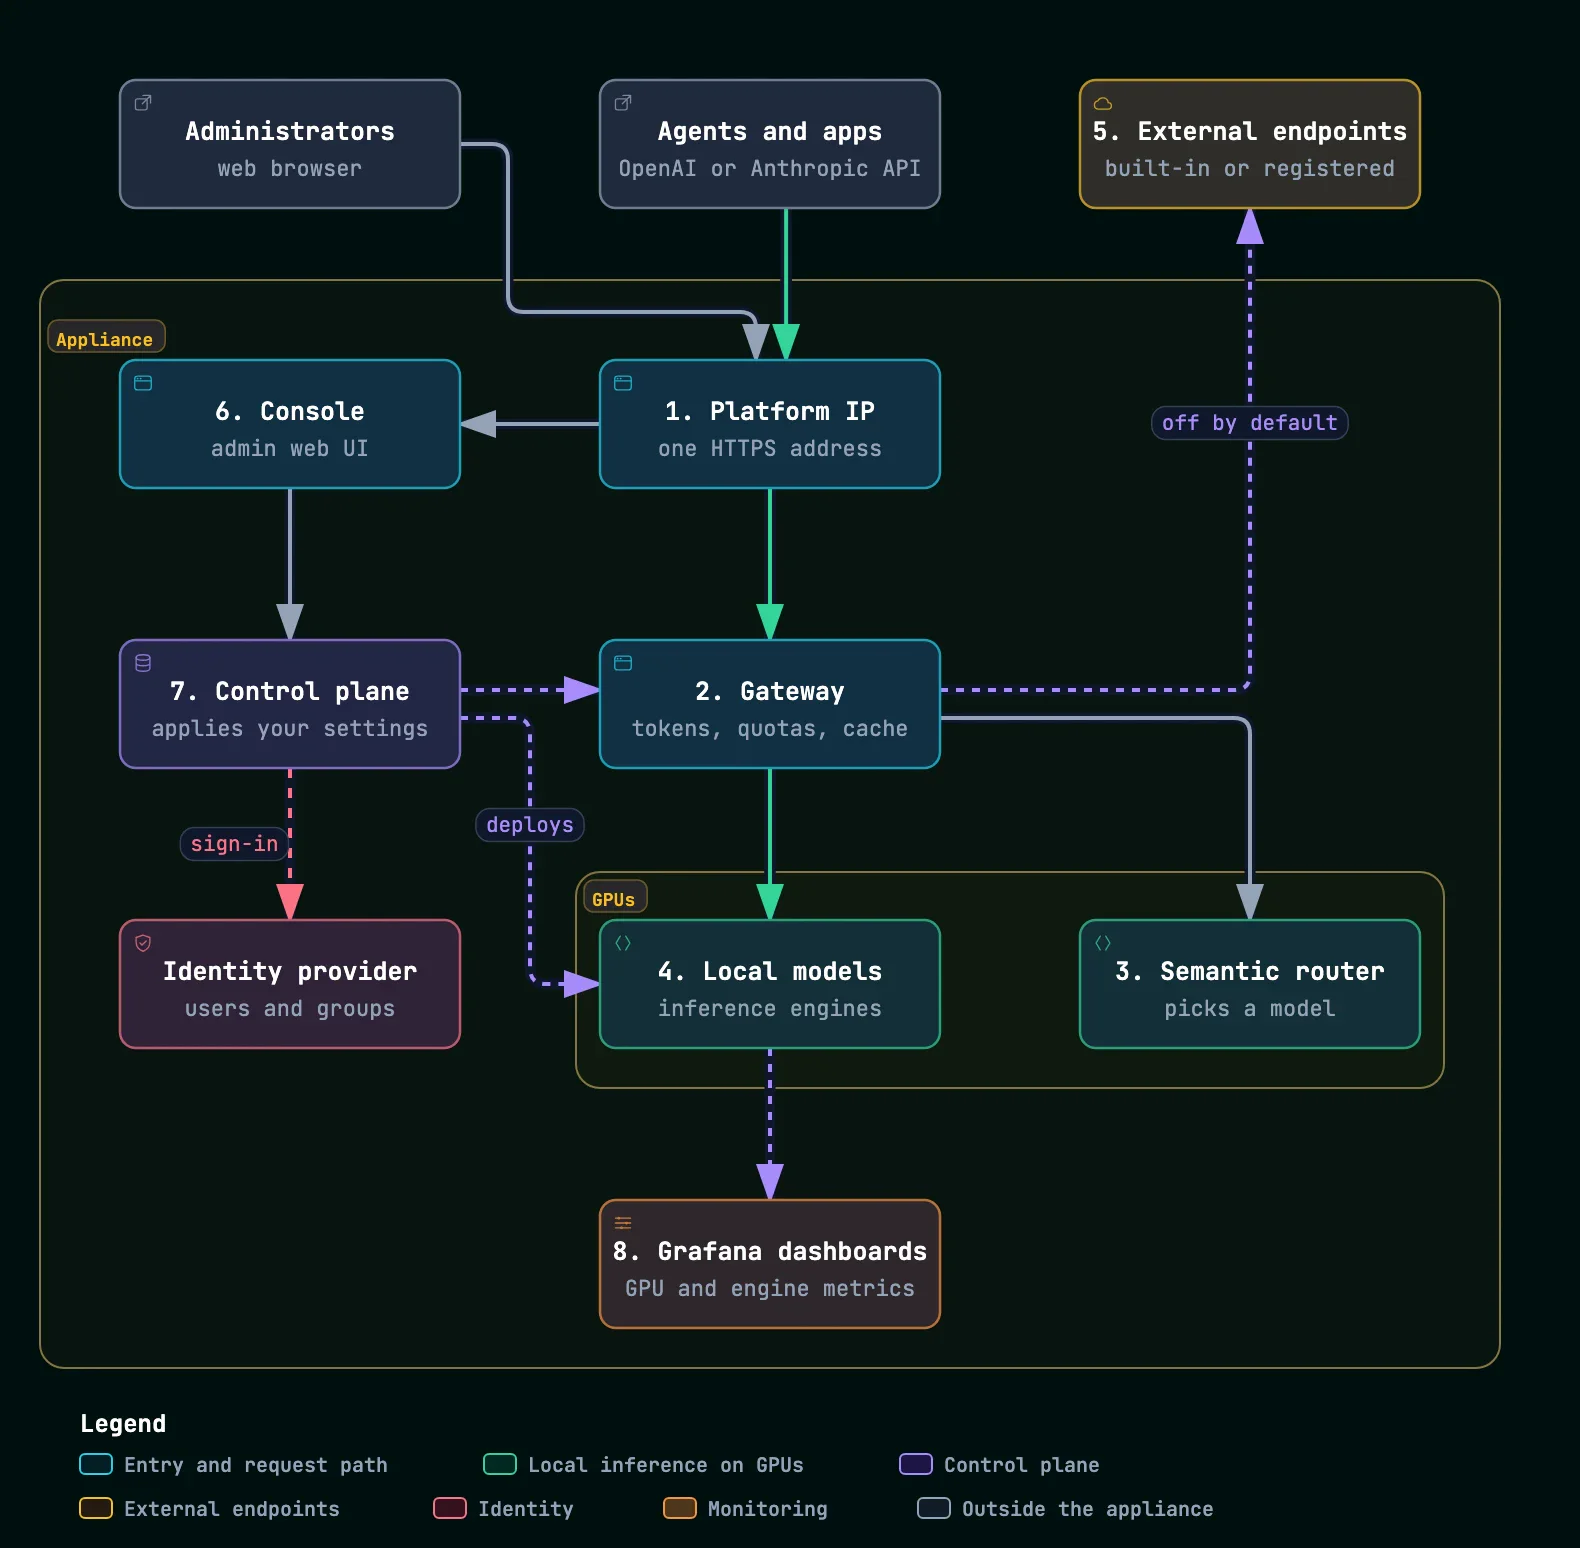
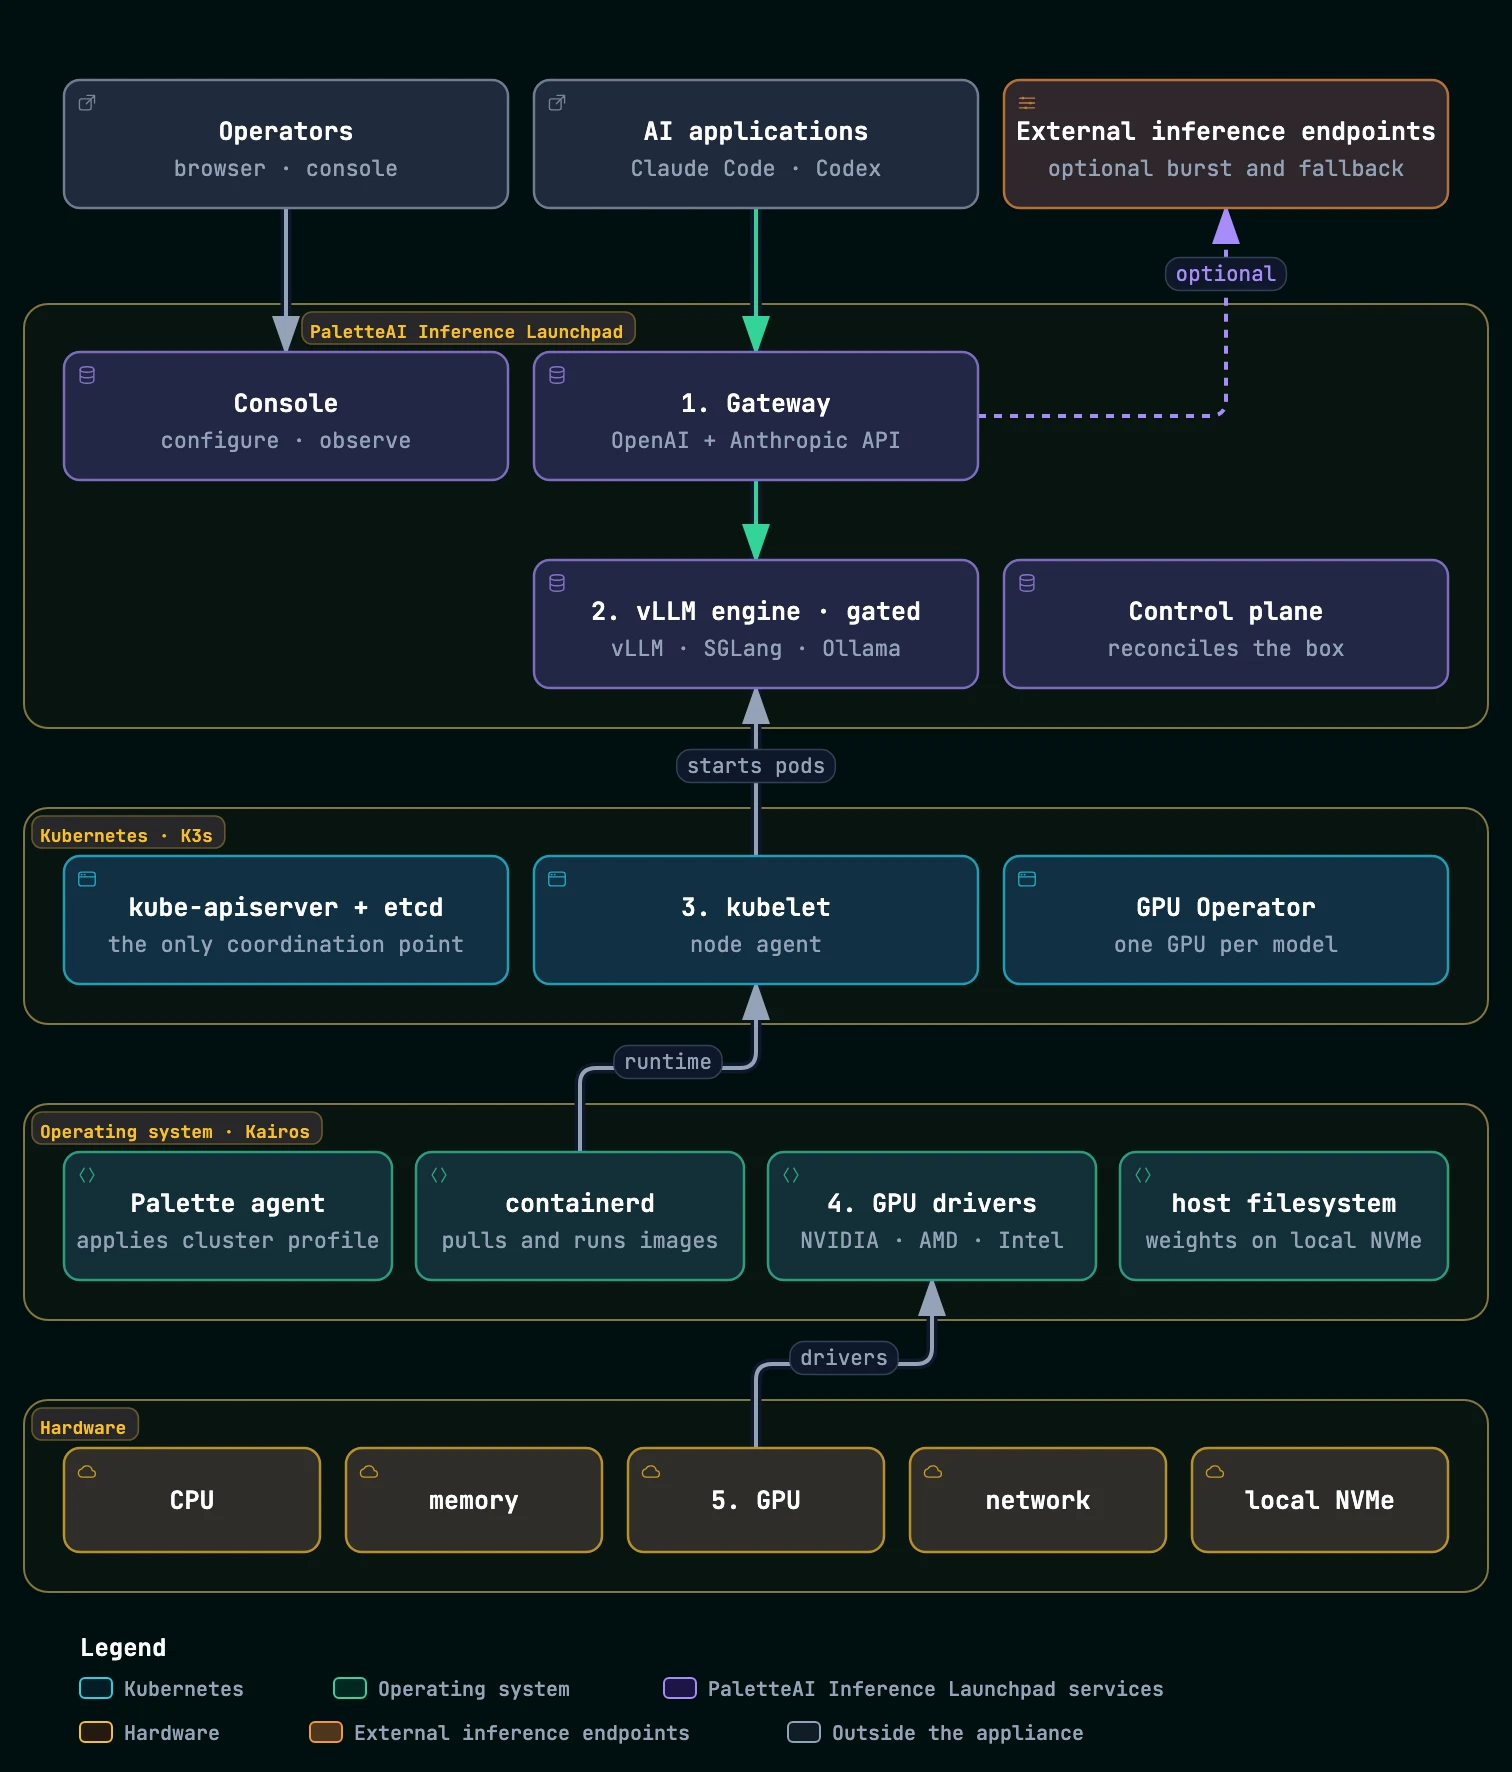
docs: redraw the PAIIL architecture diagram as a layered stack (DOC-3368)
The diagram now follows the SME's layered design, with the hardware, Kairos operating system, Kubernetes, and PaletteAI Inference Launchpad layers stacked from the bottom up.

Five numbered boxes follow a request from the gateway down to the GPU, one or more in each layer, and the numbered list on the page matches them.

Each layer has its own color in the legend, and the main request path keeps the green arrow from the style guide.

The Launchpad layer uses two rows, so the image is narrower and its text renders larger on the page.

diff --git a/docs/products/paletteai-inference-launchpad/explanation/architecture.md b/docs/products/paletteai-inference-launchpad/explanation/architecture.md
@@ -18,13 +18,13 @@ Launchpad.
 
 ## Component Stack
 
-The following diagram shows the components of the appliance, the path that a request takes through them, and where a
-request can leave the appliance. The numbers in the diagram match the list that follows it.
+The following diagram shows the appliance as a stack of four layers, where each layer runs on the layer below it. The
+numbers follow a request from an AI application down to the GPU, and they match the list after the diagram.
 
 <p>
   <ThemedImage
     className="markdown-image"
-    alt="Architecture diagram of the appliance, with the request path down the middle from coding agents to local models on GPUs, the administration side on the left, and external endpoints at the top right. The list after the diagram describes each numbered component."
+    alt="Layered diagram of the appliance. From the bottom up, the layers are the hardware, the Kairos operating system, Kubernetes, and the PaletteAI Inference Launchpad services. A request path runs down the middle from AI applications to the gateway, the vLLM engine, and the GPU, and an optional path leads to external inference endpoints. The list after the diagram describes each numbered component."
     sources={{
       light: "/assets/docs/images/architecture_inference-launchpad-overview.webp",
       dark: "/assets/docs/images/architecture_inference-launchpad-overview-dark.webp",
@@ -32,44 +32,39 @@ request can leave the appliance. The numbers in the diagram match the list that 
   />
 </p>
 
-1. Coding agents and applications send their requests to the Platform IP, the single HTTPS address that serves the
-   OpenAI-compatible and Anthropic Messages APIs. Administrators reach the console through the same address. For how the
-   address reaches the node, refer to [Network Topology](#network-topology).
+<!-- vale Vale.Terms = NO -->
 
-2. The gateway authenticates the calling client from its API token, enforces the client's quotas, and routes the request
-   to a model. When an administrator turns on the response cache, the gateway replays the stored answer to an identical
-   request from the same client, without sending it to a model. Refer to [Request Routing](#request-routing) and
-   [The Response Cache](./usage-pricing.md#the-response-cache).
+1. AI applications, such as [Claude Code](../how-to-guides/use-claude-code.md), [Codex](../how-to-guides/use-codex.md),
+   [Cursor](../how-to-guides/use-cursor.md), and [OpenCode](../how-to-guides/use-opencode.md), send their requests to
+   the gateway through the Platform IP. The gateway serves the OpenAI-compatible and Anthropic Messages APIs. It
+   authenticates each client, enforces the client's quotas, and routes each request to a model. Refer to
+   [Request Routing](#request-routing) and [Network Topology](#network-topology).
 
-3. When a request sends `auto` as the model, sends no model, or names a Tier map alias set to **Use Semantic Router
-   rules**, the gateway asks the semantic router to pick a model. The semantic router runs on the same GPUs as the local
-   models. For details, refer to
-   [What Reaches the Semantic Router](./routing-behavior.md#what-reaches-the-semantic-router).
+2. The vLLM engine serves the model that the gateway chose. Refer to [Model Placement](./model-placement.md).
 
-4. The chosen local model answers the request on the appliance's GPUs. For how the appliance places each model on the
-   cluster's nodes, refer to [Model Placement](./model-placement.md).
+3. Kubernetes runs the engine as a pod. The kubelet on the node starts the pod, with containerd as its runtime, and the
+   GPU Operator makes the GPUs available to it.
 
-5. Egress is off by default, so a request leaves the appliance for an external inference endpoint only when an operator
-   allows it. An endpoint is either a built-in one for Anthropic, OpenAI, or Gemini, or an OpenAI-compatible host that a
-   platform administrator registered. Refer to [External Inference Endpoints](#external-inference-endpoints) and
-   [Data Residency and Isolation](#data-residency-and-isolation).
+4. The GPU drivers in the operating system let the engine use the GPUs.
 
-6. Administrators work in the appliance console, where they deploy models, manage clients and quotas, set routing, and
-   view usage. Refer to
-   [Local UI and the Appliance Console](../paletteai-inference-launchpad.md#local-ui-and-the-appliance-console).
+5. The model runs on the appliance's GPUs. For how to size the GPUs, refer to [Hardware Sizing](#hardware-sizing).
 
-7. The appliance's control plane, which is separate from the Kubernetes control plane, applies the settings that
-   administrators save in the console. It configures the gateway and deploys each model to the GPUs. It also signs
-   administrators in through the appliance's identity provider, which holds the users and groups that the console lists.
-   Refer to [Model Provisioning Lifecycle](#model-provisioning-lifecycle) and
-   [Users, Groups, and Access](./clients-and-quotas.md#users-groups-and-access).
+<!-- vale Vale.Terms = YES -->
 
-8. The Grafana dashboards show infrastructure metrics over time, such as GPU utilization and engine throughput. Token
-   and cost accounting stays on the console's **Usage** page. Refer to
-   [Open the Metrics Dashboards](../how-to-guides/view-token-usage.md#open-the-metrics-dashboards).
+When an operator allows egress, the gateway can send a request to an external inference endpoint instead of a local
+model. Egress is off by default. An endpoint is either a built-in one for Anthropic, OpenAI, or Gemini, or an
+OpenAI-compatible host that a platform administrator registered. Refer to
+[External Inference Endpoints](#external-inference-endpoints) and
+[Data Residency and Isolation](#data-residency-and-isolation).
 
-Local UI does not appear in the diagram because the node's operating system serves it on the Host IP, not on the
-Platform IP, as [Network Topology](#network-topology) describes.
+Operators open the console in a web browser to configure the appliance and observe how it is used. The control plane,
+which is separate from the Kubernetes control plane, keeps the appliance in line with the settings that operators save
+for models, clients, and policies. Refer to [Model Provisioning Lifecycle](#model-provisioning-lifecycle).
+
+The lower layers hold the parts that every service relies on. In Kubernetes, the API server, backed by etcd, is the one
+place where the appliance's components coordinate. The operating system is Kairos, an immutable Linux distribution. In
+it, the Palette agent applies the appliance's cluster profile, and model weights live on the host filesystem, on local
+NVMe storage.
 
 The appliance serves each model through an inference engine, such as vLLM, running on its Kubernetes cluster. Each
 loaded model is exposed as an OpenAI-compatible endpoint, such as `/v1/chat/completions` and `/v1/models`. For the
